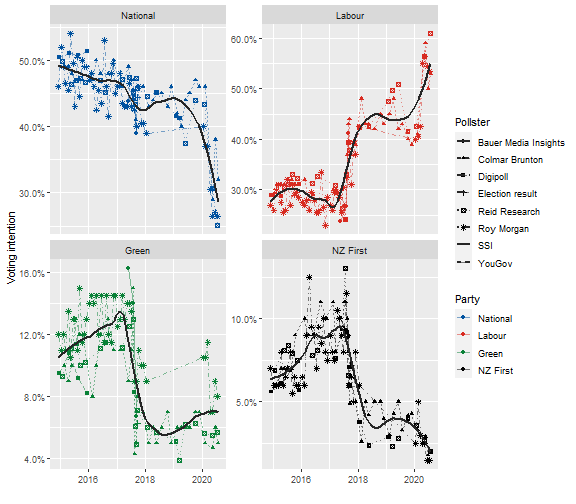
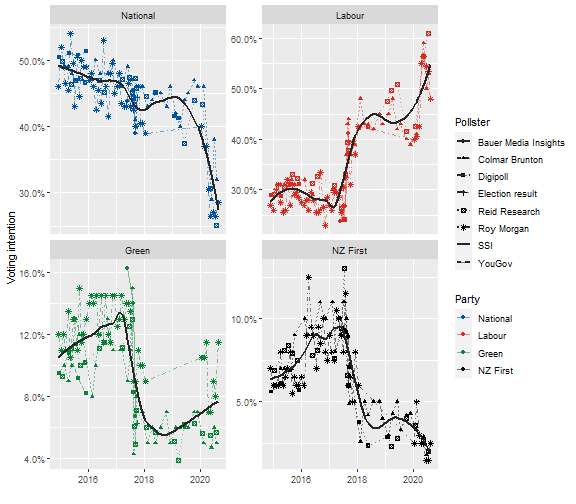
added one more Roy Morgan poll

diff --git a/pkg1/doc/README.html b/pkg1/doc/README.html
@@ -511,7 +511,7 @@ code > span.er { color: #a61717; background-color: #e3d2d2; }
 ## more than 6 becomes difficult to discriminate; you have 8. Consider
 ## specifying shapes manually if you must have them.</code></pre>
 <pre><code>## Warning: Removed 8 rows containing missing values (geom_point).</code></pre>
[2 lines of base64/hex data omitted]
 <p>Note that it is not appropriate to frequently update the version of <code>nzelect</code> on CRAN, so polling data will generally be out of date. The development version of <code>nzelect</code> from GitHub will be kept more up to date (but no promises exactly how much).</p>
 </div>
 <div id="usage---convenience-functions" class="section level2">

diff --git a/README.md b/README.md
@@ -211,18 +211,18 @@ nzge %>%
 
 ```
 ## # A tibble: 395 x 2
-##    voting_place                                                                      total_votes
-##    <chr>                                                                                   <dbl>
-##  1 Advance Voting Place - Mobile Team                                                        210
-##  2 Ashburton Hospital & Rest Homes Team - Taken in Rangitata                                 310
-##  3 Auckland Hospital Mobile & Advance Voting                                                 816
-##  4 Central Mobile Team                                                                       212
-##  5 Chatham Islands Council Building, 9 Tuku Road, Waitangi                                   230
-##  6 Christchurch Mobile Voting Facility One, Central Christchurch and South City Mall         982
-##  7 Defence Force Team, Powles Road                                                            94
-##  8 Duvauchelle Community Centre, Main Road                                                   185
-##  9 Herald Island Community Hall, 57 Ferry Parade                                             274
-## 10 Hospital & Rest Homes - Team 1 - Taken in New Plymouth                                    643
+##    voting_place                                                                total_votes
+##    <chr>                                                                             <dbl>
+##  1 Advance Voting Place - Mobile Team                                                  210
+##  2 Ashburton Hospital & Rest Homes Team - Taken in Rangitata                           310
+##  3 Auckland Hospital Mobile & Advance Voting                                           816
+##  4 Central Mobile Team                                                                 212
+##  5 Chatham Islands Council Building, 9 Tuku Road, Waitangi                             230
+##  6 Christchurch Mobile Voting Facility One, Central Christchurch and South Ci~         982
+##  7 Defence Force Team, Powles Road                                                      94
+##  8 Duvauchelle Community Centre, Main Road                                             185
+##  9 Herald Island Community Hall, 57 Ferry Parade                                       274
+## 10 Hospital & Rest Homes - Team 1 - Taken in New Plymouth                              643
 ## # ... with 385 more rows
 ```
 
@@ -279,9 +279,9 @@ polls %>%
 ```
 
 ```
-## Warning: The shape palette can deal with a maximum of 6 discrete values because more than 6 becomes
-## difficult to discriminate; you have 8. Consider specifying shapes manually if you must have
-## them.
+## Warning: The shape palette can deal with a maximum of 6 discrete values because more than
+## 6 becomes difficult to discriminate; you have 8. Consider specifying shapes
+## manually if you must have them.
 ```
 
 ```
